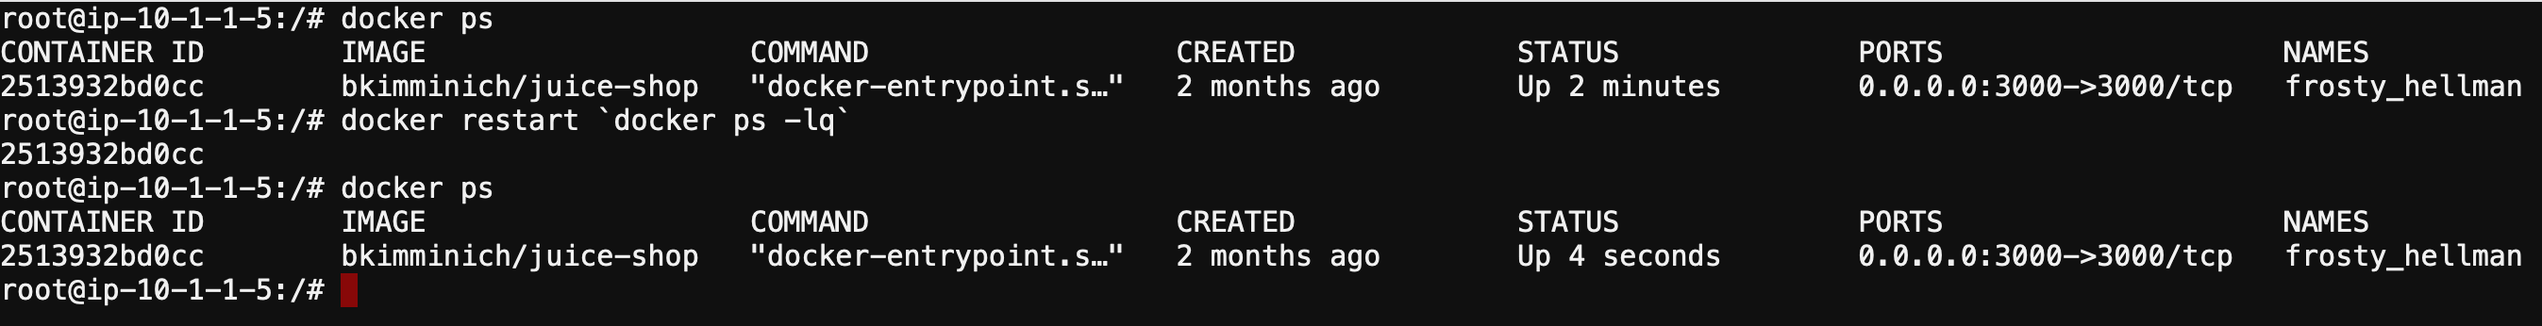
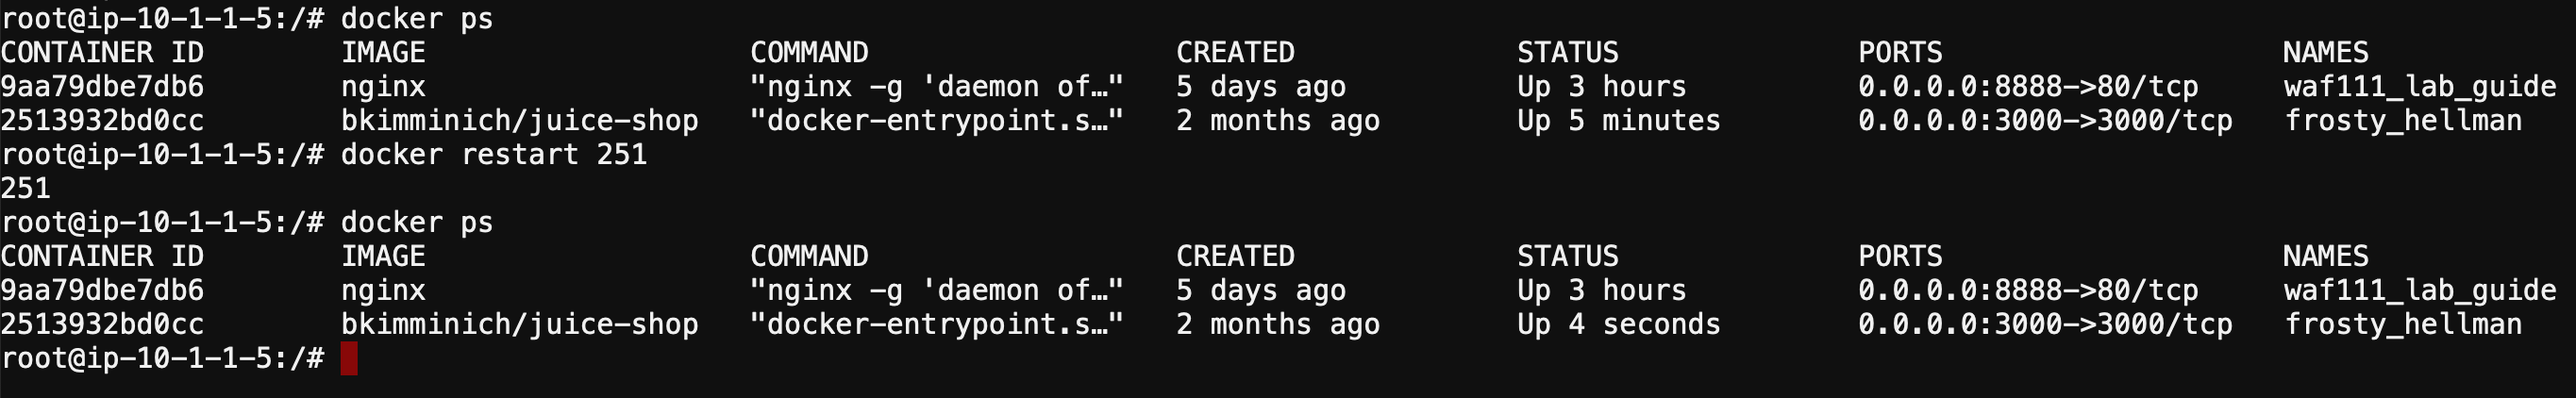
minor changes to content

diff --git a/docs/class9/module2/lab1.rst b/docs/class9/module2/lab1.rst
@@ -15,15 +15,25 @@ The Juice Shop application must be restarted to reset the database. Log onto the
 
 .. image:: /_static/class9/web_shell_internal_lamp.png
 
-At the shell prompt, type the following commands to restart the Juice Shop application. The first command will list the running docker containers. Note the STATUS. The second command restarts the docker container and the third command will list the running container where you should see the STATUS listed as Up for a few seconds which confirms the application was restarted.
+At the shell prompt, type the following commands to restart the Juice Shop application. The first command will list the running docker containers. Note the STATUS. The second command restarts the Juice Shop docker container (only the first 3 unique charcters of the container ID are required) and the third command will list the running container where you should see the STATUS listed as Up for a few seconds which confirms the application was restarted.
+
+In the web shell run the command ``docker ps``. The output will look like the following:
 
 .. code-block:: none
 
-    docker ps
-    docker restart `docker ps -lq`
-    docker ps
+    CONTAINER ID        IMAGE                   COMMAND                  CREATED             STATUS              PORTS                    NAMES
+    9aa79dbe7db6        nginx                   "nginx -g 'daemon of…"   5 days ago          Up 3 hours          0.0.0.0:8888->80/tcp     waf111_lab_guide
+    2513932bd0cc        bkimminich/juice-shop   "docker-entrypoint.s…"   2 months ago        Up 3 hours          0.0.0.0:3000->3000/tcp   frosty_hellman
+    
+    
+Run the command ``docker restart 251``, but make sure to type the first 3 characters of your Juice Shop container ID. The output will be the first 3 characters of the container ID:
 
-The letters after ``docker ps`` are lowercase L (el) Q (queue) and the character on either end is a backtick.
+.. code-block:: none
+
+    251
+
+
+Run the command ``docker ps`` to ensure the container was restarted. Your web shell should look very similar to the following:
 
 .. image:: /_static/class9/docker_ps_restart.png
 

diff --git a/docs/class9/module1/lab1.rst b/docs/class9/module1/lab1.rst
@@ -62,17 +62,19 @@ Create security policy using the Guided Configuration
 
 #. The next page will summarize the objects and policy configuration.  Review, and take note that you can also go back and edit if required.  When done click **Deploy** at the bottom of the screen.  It will take a few moments to complete the policy build.
 
+    .. image:: /_static/class9/deploy_waf_policy.png
+
 #.  After the policy is created, we will want to apply a logging profile to our new security policy.
 
     - Go to **Securirty -> Overview -> Summary**, and the policy you just created should be listed. 
     - Place a check to the left of the **Virtual Server** name that your new ecurity policy is applied to.  
     - Now click the blue **Attach** button above and select **Logging Profile**
 
-        .. image:: /_static/class9/attachlogging1.png
+    .. image:: /_static/class9/attachlogging1.png
 
     - Select **Log illegal requests** and press the other **Attach** button below.
 
-        .. image:: /_static/class9/attachlogging2.png
+    .. image:: /_static/class9/attachlogging2.png
 
     - You will now see the logging profile is added under the Application Security column.  
 

diff --git a/docs/class9/module1/lab2.rst b/docs/class9/module1/lab2.rst
@@ -14,7 +14,7 @@ Discover and learn to operate the Dashboard
 
 #. On the Main tab, click **Security -> Overview -> OWASP Compliance**. This opens the OWASP Dashboard.  Highlight your new policy ``juice_shop_waf``.  You will see that your score is 0/10 for securing against the OWASP top 10.  Though you will see partial % scores for some.
 
-#. Click on the expand arrow next to A1 Injection.  This will display the attack signature types and required protections you need to secure yourself against this risk.
+#. Click on the expand arrow next to **A1 Injection**.  This will display the attack signature types and required protections you need to secure yourself against this risk.
 
     .. image:: /_static/class9/a1initialreview.png
 
